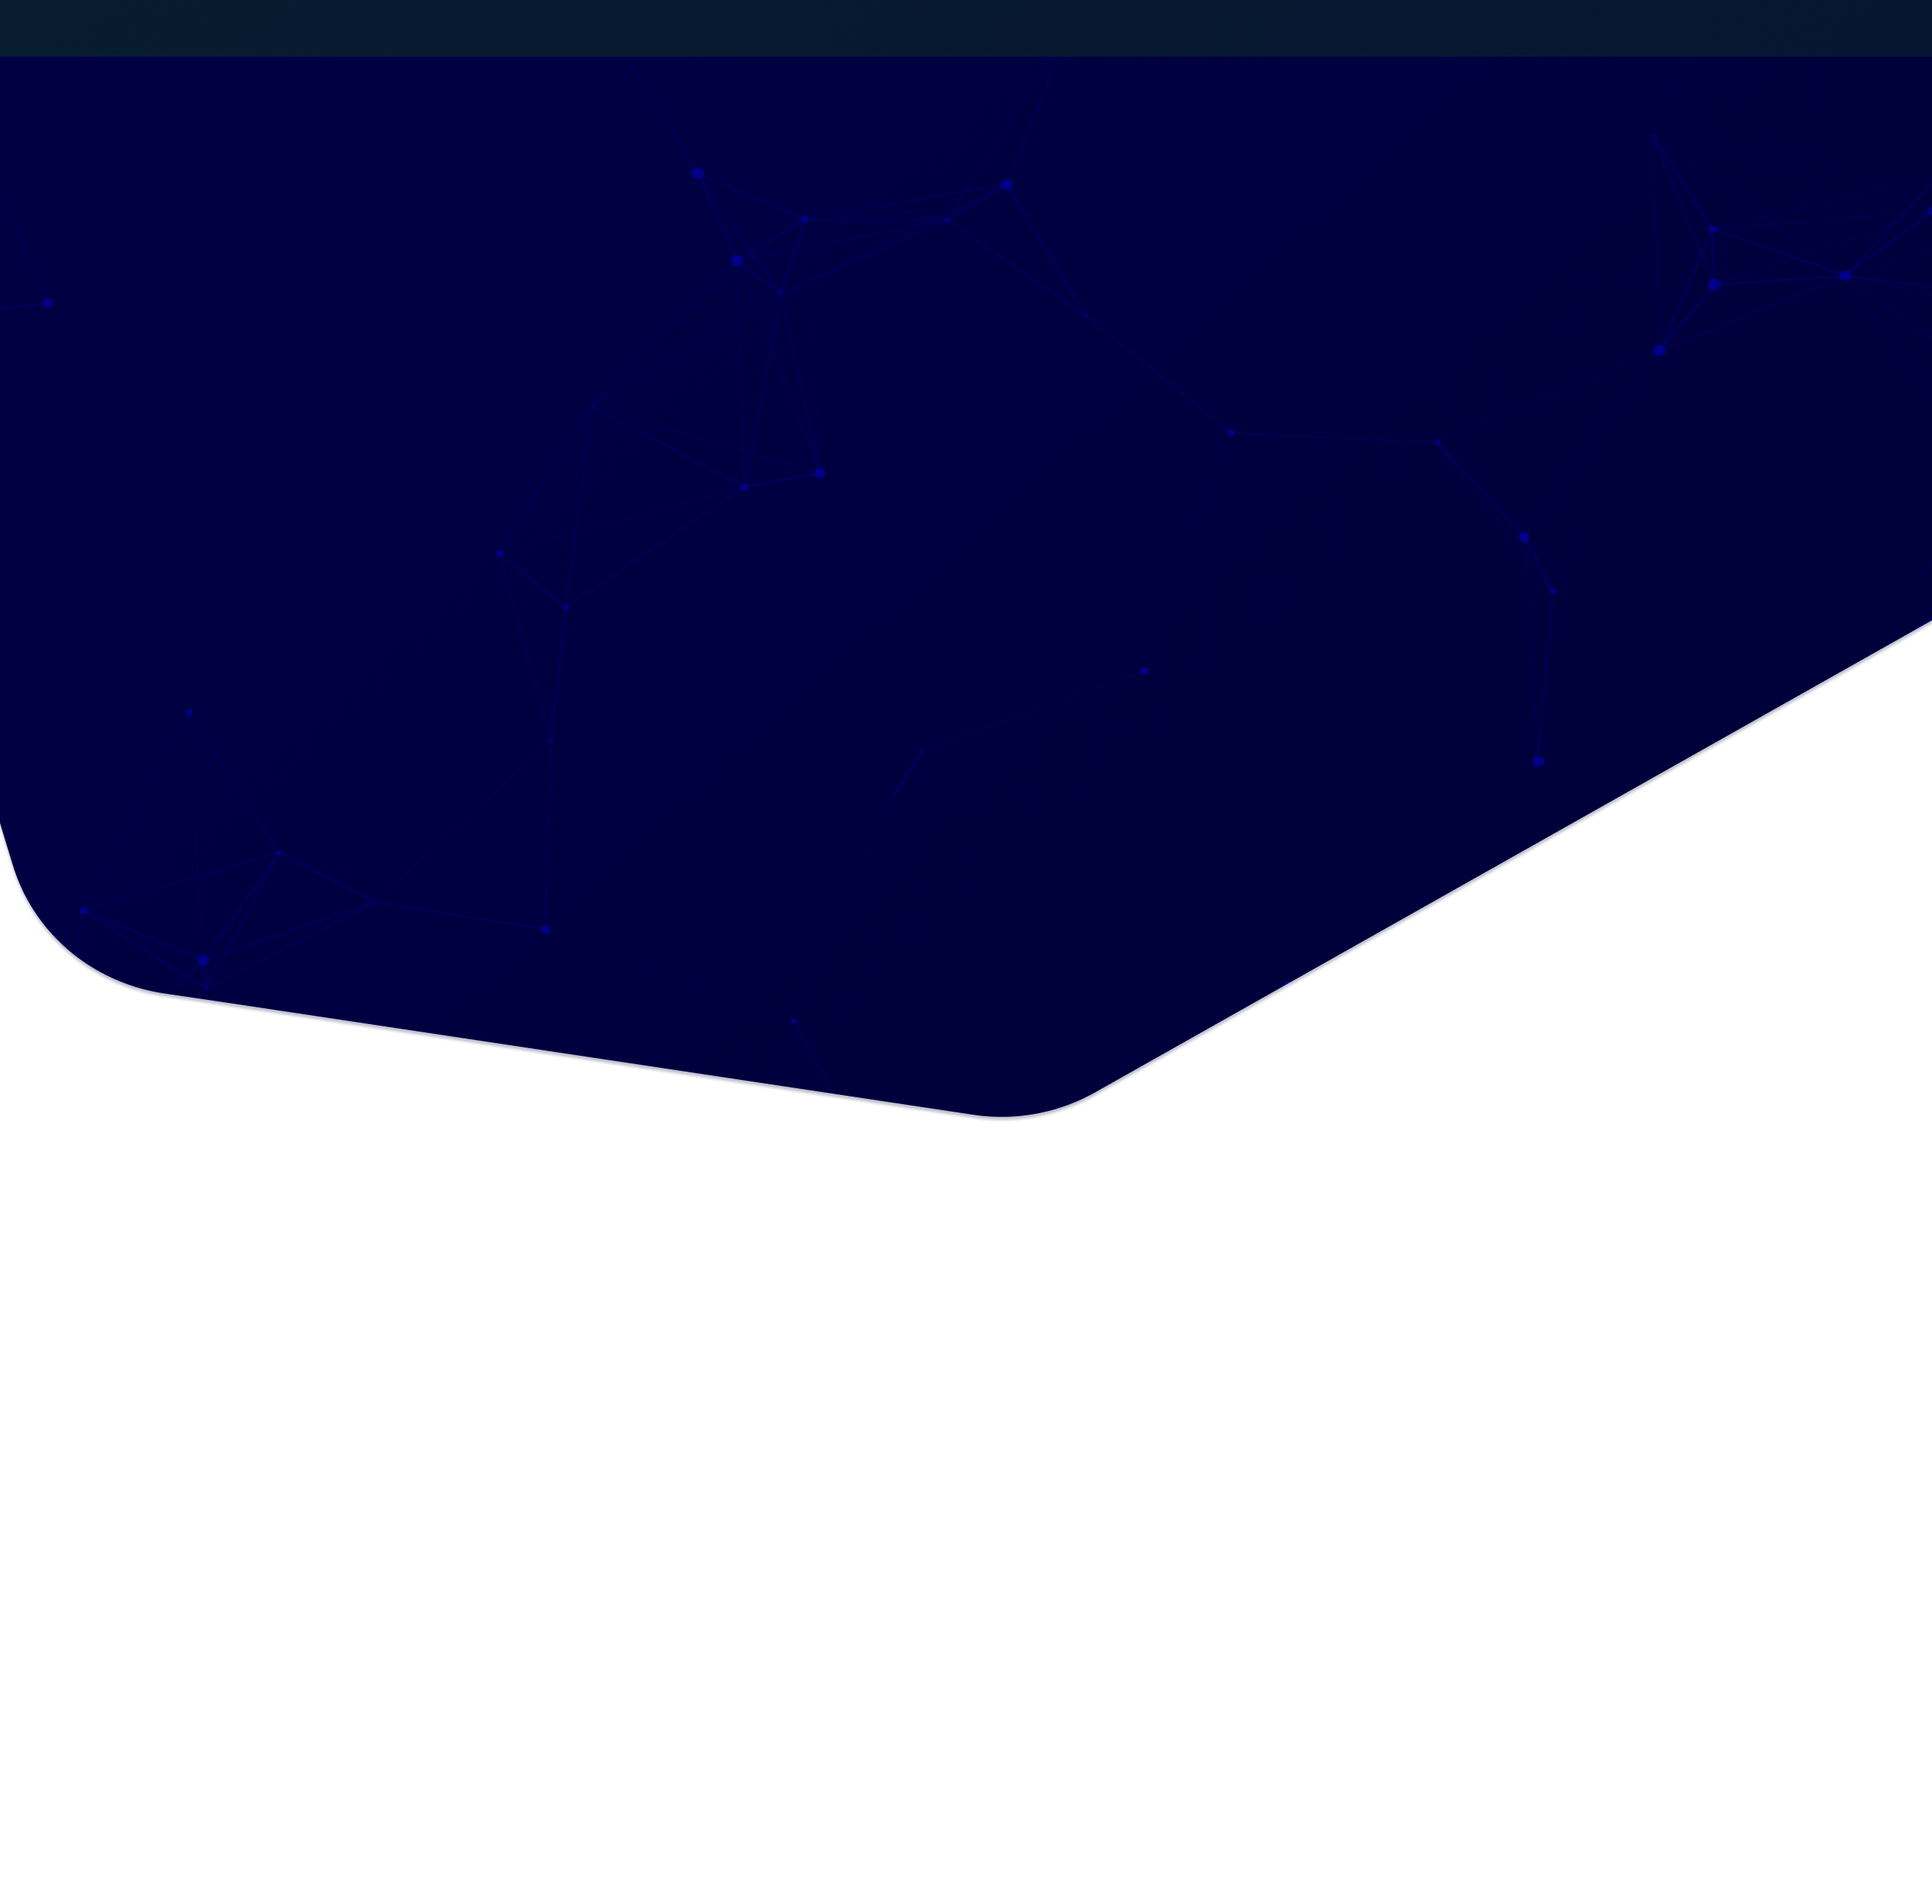
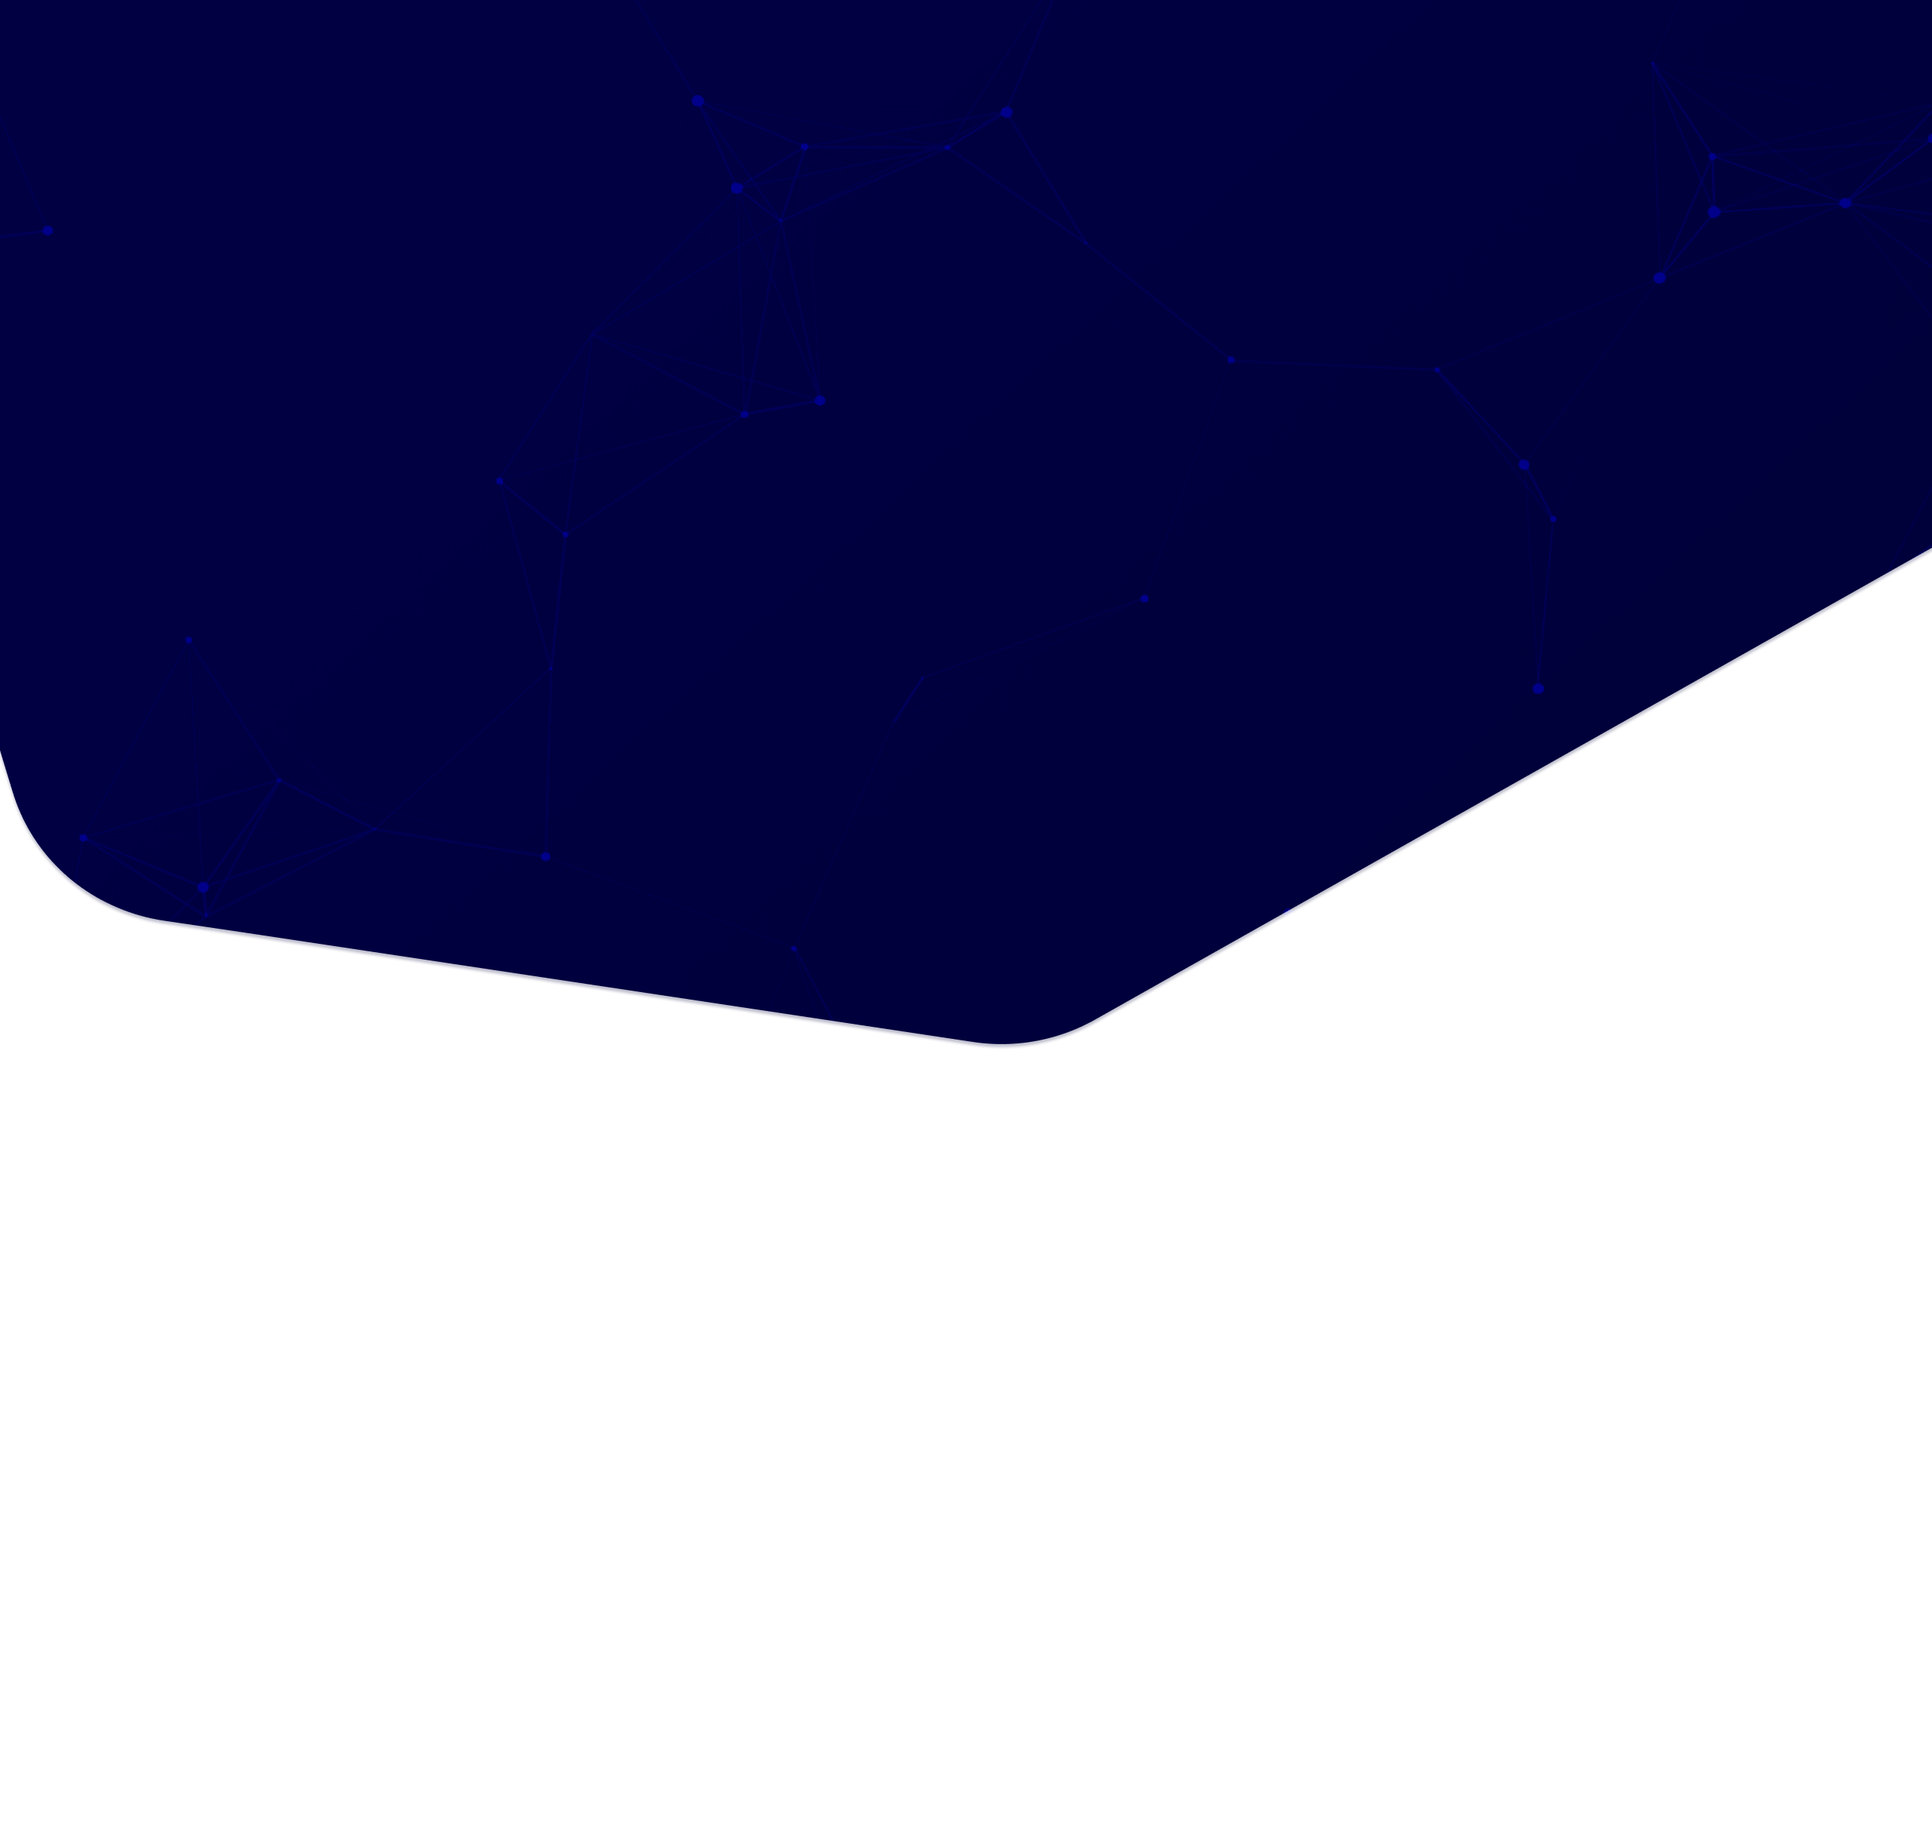
ok

Changed region(s): [[0.0, 0.3106, 1.0, 0.5901], [0.0, 0.0, 0.6562, 0.0311], [0.875, 0.0932, 0.9062, 0.1242]]

diff --git a/src/layout/Hero/index.js b/src/layout/Hero/index.js
@@ -1,7 +1,7 @@
 import '../../assets/css/Home/hero.css'
 import logo from '../../assets/images/jupit_white.svg'
 import Phone from '../../assets/images/phone1.png'
-import banner from '../../assets/images/banner.svg'
+import banner from '../../assets/images/banner.png'
 import umbrella from '../../assets/images/umbrella.svg'
 import { Link } from 'react-router-dom'
 import { Link as ScrollLink } from 'react-scroll'

diff --git a/src/assets/css/Home/hero.css b/src/assets/css/Home/hero.css
@@ -239,7 +239,7 @@
     
     display: flex;
     flex-direction: row;
-    padding-top: 60px;
+    padding-top: 10px;
     padding-bottom: 10px;
     position: fixed;
     z-index:3;
